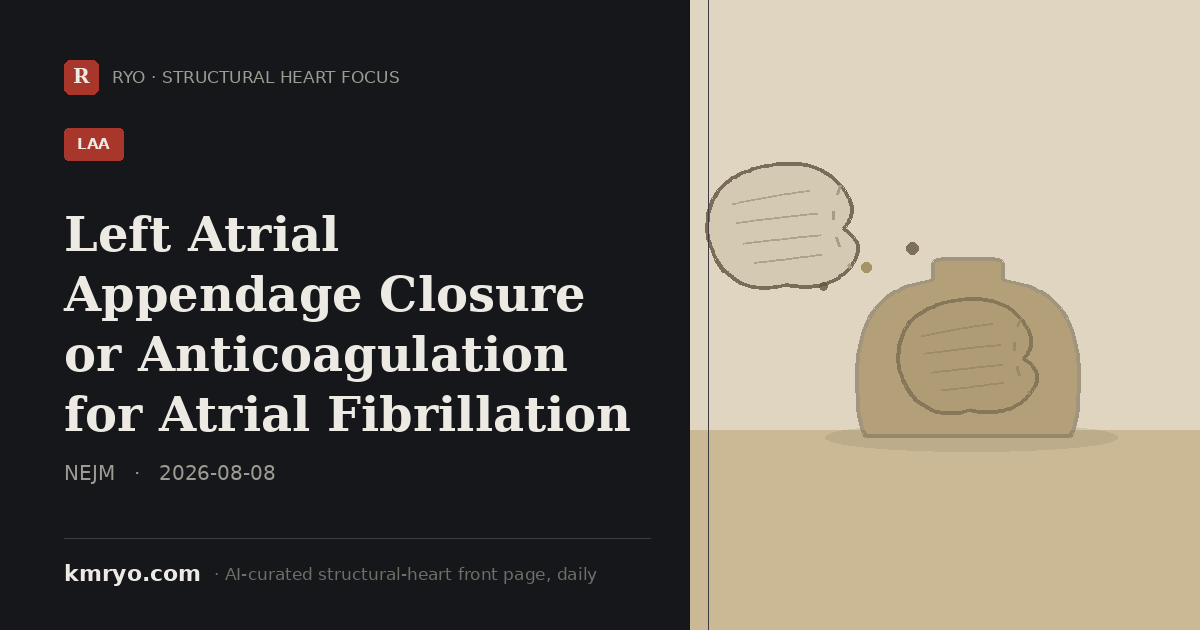
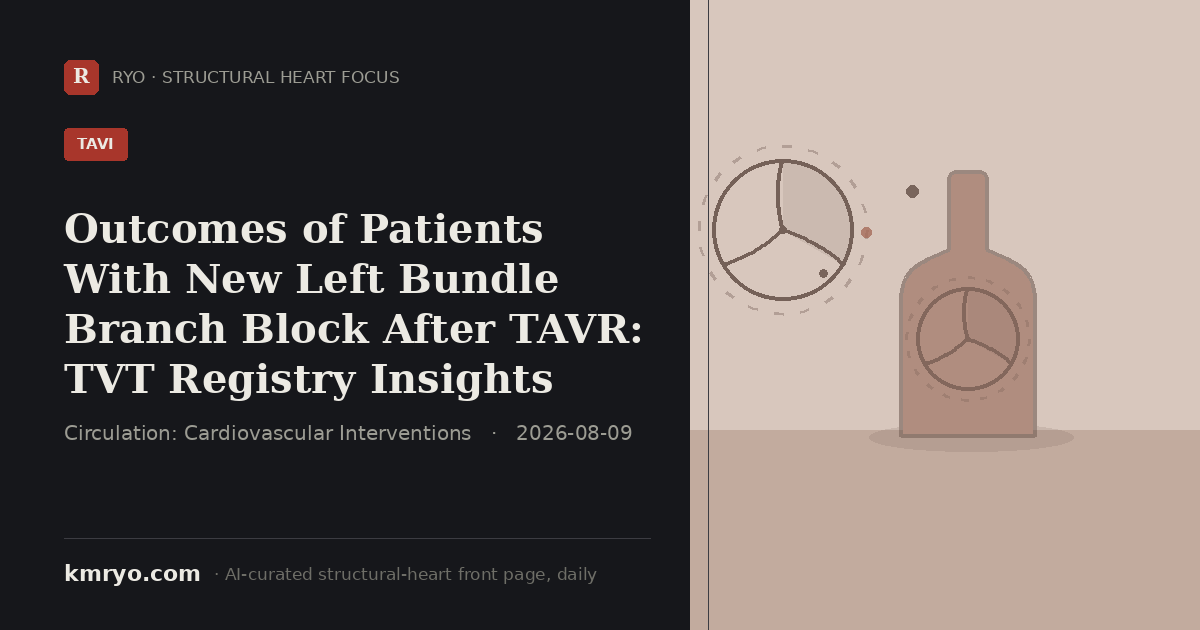
pulse: 2026-08-09 daily update

diff --git a/index.html b/index.html
@@ -6,8 +6,8 @@
 <title>Structural Heart Focus — Daily | Dr. Mi Chen · 千觅量子 RYO</title>
 <meta name="description" content="Structural Heart Focus — the day's most important structural-heart reading (top journals, major meetings and the field's conversation), curated daily by an AI agent from inside the Zurich hybrid room. By Dr. Mi Chen · 千觅量子 RYO.">
 <!-- Social share card. Regenerated daily by the pulse agent (pulse/make_share_card.py); og:title/description updated to the day's top story so LinkedIn/WeChat/X show today's headline, not a static portrait. -->
-<meta property="og:title" content="Left Atrial Appendage Closure or Anticoagulation for Atrial Fibrillation">
-<meta property="og:description" content="The NEJM-published CHAMPION-AF trial (n=3,000) finds Watchman FLX left atrial appendage closure non-inferior to NOACs for stroke prevention, with 34% less bleeding at 3 years. AI-curated daily by Dr. Mi Chen · 千觅量子 RYO.">
+<meta property="og:title" content="Outcomes of Patients With New Left Bundle Branch Block After TAVR: TVT Registry Insights">
+<meta property="og:description" content="STS/ACC TVT Registry analysis of 202,533 TAVR patients finds new LBBB in 16.3%, linked to a 3.5x higher pacemaker rate and worse 1-year outcomes. AI-curated daily by Dr. Mi Chen · 千觅量子 RYO.">
 <meta property="og:image" content="https://www.kmryo.com/pulse/img/share/card.png">
 <meta property="og:image:width" content="1200">
 <meta property="og:image:height" content="630">
@@ -16,8 +16,8 @@
 <meta property="og:type" content="website">
 <meta property="og:site_name" content="kmryo.com · Structural Heart Focus">
 <meta name="twitter:card" content="summary_large_image">
-<meta name="twitter:title" content="Left Atrial Appendage Closure or Anticoagulation for Atrial Fibrillation">
-<meta name="twitter:description" content="The NEJM-published CHAMPION-AF trial (n=3,000) finds Watchman FLX left atrial appendage closure non-inferior to NOACs for stroke prevention, with 34% less bleeding at 3 years.">
+<meta name="twitter:title" content="Outcomes of Patients With New Left Bundle Branch Block After TAVR: TVT Registry Insights">
+<meta name="twitter:description" content="STS/ACC TVT Registry analysis of 202,533 TAVR patients finds new LBBB in 16.3%, linked to a 3.5x higher pacemaker rate and worse 1-year outcomes.">
 <meta name="twitter:image" content="https://www.kmryo.com/pulse/img/share/card.png">
[1 lines of base64/hex data omitted]
 <link rel="preconnect" href="https://fonts.googleapis.com">
